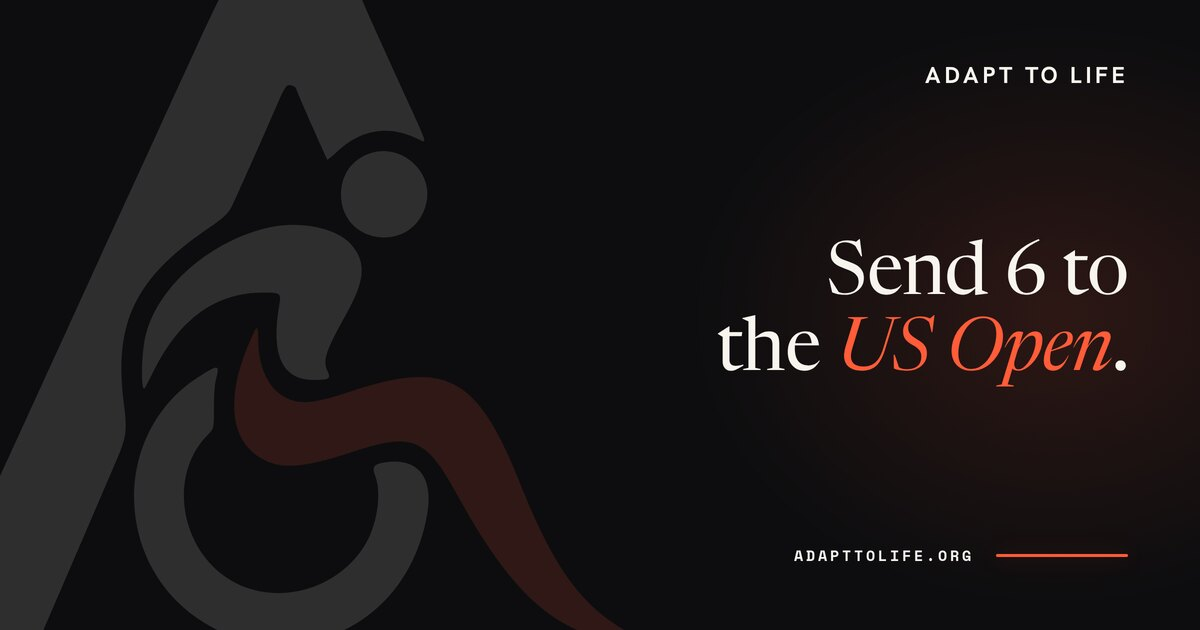
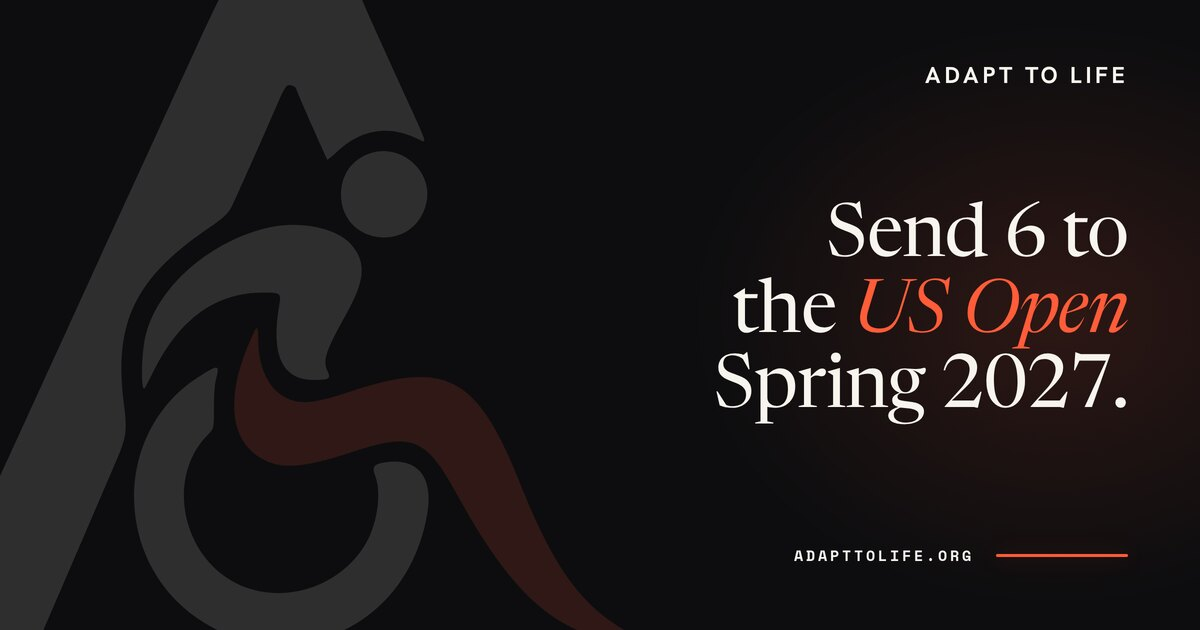
[verified] content: add Spring 2027 to Send 6 campaign

Changed region(s): [[0.5858, 0.3016, 0.9558, 0.6937], [0.925, 0.6333, 0.9558, 0.6635]]

diff --git a/public/send-6.html b/public/send-6.html
@@ -4,25 +4,25 @@
 <meta charset="UTF-8">
 <meta name="viewport" content="width=device-width, initial-scale=1.0">
 <meta name="color-scheme" content="light only">
-<title>Send 6 to the US Open | Adapt To Life</title>
-<meta name="description" content="We are raising $21,000 to send six adaptive pickleball athletes to the US Open in Naples with nothing out of pocket. About $3,500 covers one athlete's equipment, training, and travel. Adapt To Life is a recognized 501(c)(3).">
+<title>Send 6 to the US Open Spring 2027 | Adapt To Life</title>
+<meta name="description" content="We are raising $21,000 to send six adaptive pickleball athletes to the US Open in Naples in spring 2027 with nothing out of pocket. About $3,500 covers one athlete's equipment, training, and travel. Adapt To Life is a recognized 501(c)(3).">
 <link rel="canonical" href="https://adapttolife.org/send-6">
 <link rel="icon" type="image/svg+xml" href="/images/favicon-v2-option2.svg">
 <link rel="icon" type="image/png" sizes="32x32" href="/images/favicon-v2-option2-32.png">
 <link rel="apple-touch-icon" href="/images/apple-touch-icon-v2-option2.png">
 <meta property="og:type" content="website">
-<meta property="og:title" content="Send 6 to the US Open | Adapt To Life">
-<meta property="og:description" content="Six adaptive athletes in Naples, nothing out of pocket. About $3,500 covers one.">
+<meta property="og:title" content="Send 6 to the US Open Spring 2027 | Adapt To Life">
+<meta property="og:description" content="Six adaptive athletes in Naples in spring 2027, with nothing out of pocket. About $3,500 covers one.">
 <meta property="og:image" content="https://adapttolife.org/images/og/send-6-v2-option2.jpg">
 <meta property="og:image:width" content="1200">
 <meta property="og:image:height" content="630">
-<meta property="og:image:alt" content="Send 6 to the US Open. Adapt To Life.">
+<meta property="og:image:alt" content="Send 6 to the US Open Spring 2027. Adapt To Life.">
 <meta property="og:url" content="https://adapttolife.org/send-6">
 <meta name="twitter:card" content="summary_large_image">
-<meta name="twitter:title" content="Send 6 to the US Open | Adapt To Life">
-<meta name="twitter:description" content="Six adaptive athletes in Naples, nothing out of pocket.">
+<meta name="twitter:title" content="Send 6 to the US Open Spring 2027 | Adapt To Life">
+<meta name="twitter:description" content="Six adaptive athletes in Naples in spring 2027, with nothing out of pocket.">
 <meta name="twitter:image" content="https://adapttolife.org/images/og/send-6-v2-option2.jpg">
-<meta name="twitter:image:alt" content="Send 6 to the US Open. Adapt To Life.">
+<meta name="twitter:image:alt" content="Send 6 to the US Open Spring 2027. Adapt To Life.">
 <link rel="preconnect" href="https://fonts.googleapis.com">
 <link rel="preconnect" href="https://fonts.gstatic.com" crossorigin>
 <link href="https://fonts.googleapis.com/css2?family=Newsreader:ital,opsz,wght@0,6..72,400;0,6..72,500;0,6..72,600;1,6..72,400;1,6..72,500&family=Hanken+Grotesk:wght@400;500;600;700&family=Space+Mono:wght@400;700&display=swap" rel="stylesheet">
@@ -187,7 +187,7 @@ fill="currentColor" stroke="none">
 <section class="dark s6-hero hero-atmos">
   <div class="wrap">
     <span class="eyebrow orange reveal">The campaign</span>
-    <h1 class="serif display reveal">Send 6 to the US Open.</h1>
+    <h1 class="serif display reveal">Send 6 to the US Open Spring 2027.</h1>
     <p class="lead sub reveal" style="color:var(--cream-mute);">Six adaptive pickleball athletes on the court in Naples, spring 2027. Not a hardship discount, not a partial scholarship. Covered.</p>
 
     <div class="s6-meter reveal" id="s6Meter">

diff --git a/test/campaign_timing.test.js b/test/campaign_timing.test.js
@@ -1,0 +1,43 @@
+import test from "node:test";
+import assert from "node:assert/strict";
+import { readFile } from "node:fs/promises";
+import { join } from "node:path";
+
+const ROOT = new URL("..", import.meta.url).pathname;
+const CAMPAIGN = "Send 6 to the US Open Spring 2027";
+
+async function text(path) {
+  return readFile(join(ROOT, path), "utf8");
+}
+
+test("Spring 2027 is part of the canonical Send 6 campaign name", async () => {
+  const campaigns = JSON.parse(await text("public/data/campaigns.json"));
+  const send6 = campaigns.campaigns.find((campaign) => campaign.slug === "send-6-us-open");
+  assert.equal(send6?.name, CAMPAIGN);
+  assert.equal(send6?.when, "Spring 2027, Naples, Florida");
+});
+
+test("campaign page and supporting cards name Spring 2027", async () => {
+  const [page, fund, popcorn] = await Promise.all([
+    text("public/send-6.html"),
+    text("public/hustle-and-heart.html"),
+    text("public/popcorn.html"),
+  ]);
+
+  assert.ok(page.includes(`<title>${CAMPAIGN} | Adapt To Life</title>`));
+  assert.ok(page.includes(`<meta property="og:title" content="${CAMPAIGN} | Adapt To Life">`));
+  assert.ok(page.includes(`<meta name="twitter:title" content="${CAMPAIGN} | Adapt To Life">`));
+  assert.ok(page.includes(`<h1 class="serif display reveal">${CAMPAIGN}.</h1>`));
+  assert.ok(fund.includes(`>Toward ${CAMPAIGN} <span class="arrow">`));
+  assert.ok(popcorn.includes(`>${CAMPAIGN}</a>`));
+});
+
+test("social metadata and generated card source carry Spring 2027", async () => {
+  const [wire, generator] = await Promise.all([
+    text("scripts/wire-og.mjs"),
+    text("scripts/make-og.mjs"),
+  ]);
+
+  assert.ok(wire.includes(`"send-6": "${CAMPAIGN}. Adapt To Life."`));
+  assert.ok(generator.includes(`Send 6 to the <em>US Open</em> Spring 2027.`));
+});

diff --git a/public/popcorn.html b/public/popcorn.html
@@ -430,7 +430,7 @@ fill="currentColor" stroke="none">
     </ul>
 
     <div class="pop-math reveal">
-      <p class="pop-math-line"><strong>About $3,500 puts one athlete on that court.</strong> Six athletes is <strong>$21,000</strong>, which is the goal of <a class="textlink" href="/send-6">Send 6 to the US Open</a>. These costs climb every year, so we budget honestly rather than optimistically.</p>
+      <p class="pop-math-line"><strong>About $3,500 puts one athlete on that court.</strong> Six athletes is <strong>$21,000</strong>, which is the goal of <a class="textlink" href="/send-6">Send 6 to the US Open Spring 2027</a>. These costs climb every year, so we budget honestly rather than optimistically.</p>
       <p class="pop-math-sub">Every bag sends about six dollars to the fund. A set of tires is roughly thirty bags. One athlete is roughly five hundred.</p>
       <p class="pop-ladder">This drive is going for <strong>$1,000</strong>. Twenty-one of them, or the equivalent in gifts, is <a class="textlink" href="/send-6">six athletes in Naples</a>.</p>
       <div class="actions" style="margin-top:1.6rem;">

diff --git a/test/site_logo.test.js b/test/site_logo.test.js
@@ -115,7 +115,7 @@ test("social cards use the Option 2 monogram on cache-busting URLs", async () =>
   const option2CardHashes = new Map([
[7 lines of base64/hex data omitted]

diff --git a/public/hustle-and-heart.html b/public/hustle-and-heart.html
@@ -291,7 +291,7 @@ fill="currentColor" stroke="none">
               <span class="thermo-goal">raised of our $21,000 goal</span>
             </div>
             <div class="thermo-track"><span class="thermo-fill" data-thermo-fill></span></div>
-            <a href="/send-6" class="thermo-link">Toward Send 6 to the US Open <span class="arrow">&rarr;</span></a>
+            <a href="/send-6" class="thermo-link">Toward Send 6 to the US Open Spring 2027 <span class="arrow">&rarr;</span></a>
           </div>
           <div style="margin-top:1.4rem; display:flex; gap:0.6rem 1.6rem; flex-wrap:wrap;">
             <a href="/tim" class="textlink" style="color:#fff; border-color:var(--orange);">Read Tim's story <span class="arrow">&rarr;</span></a>

diff --git a/src/fund.js b/src/fund.js
@@ -38,7 +38,7 @@ export async function fundPosition(env) {
     raised: online + offline,
     online,
     offline,
-    // Fallback only. The live goal is Givebutter's (Send 6 to the US Open:
+    // Fallback only. The live goal is Givebutter's (Send 6 to the US Open Spring 2027:
     // 6 athletes x $3,500). Change it there, not here (Spec 115 D3).
     goal: goal || Number(env.RAISED_GOAL) || 21000,
     live,

diff --git a/docs/CONTENT.md b/docs/CONTENT.md
@@ -153,7 +153,7 @@ Each message lives in ONE canonical place. Everywhere else: one line max, linkin
   - Flip list, for whoever launches ASNM: nav description on all 16 pages, `/`, `/about`,
     `/roadmap`, `/karen`, and `/adaptive-sports-near-me` (hero, closing, and both CTA labels).
 - **A campaign and a drive are different things and never merge.** A *campaign* is what we are
-  raising for and who it reaches (Send 6 to the US Open, six athletes, $21,000). It has a goal and a
+  raising for and who it reaches (Send 6 to the US Open Spring 2027, six athletes, $21,000). It has a goal and a
   named beneficiary, and it gets a page. A *drive* is a dated way we raise it (the August popcorn
   store, a tournament). It feeds exactly one campaign and is a row on that campaign's page until it
   earns a page of its own, the way popcorn did. Goals nest and never compete: a drive carries what

diff --git a/docs/popcorn-campaigns.md b/docs/popcorn-campaigns.md
@@ -95,7 +95,7 @@ That is the whole job. Nothing else on any page needs touching.
 
 ```
 Hustle & Heart Fund            the fund, open every day
-   └─ Send 6 to the US Open    the campaign, $21,000 (six athletes x ~$3,500), page at /send-6
+   └─ Send 6 to the US Open Spring 2027    the campaign, $21,000 (six athletes x ~$3,500), page at /send-6
         └─ August popcorn drive    one drive, Aug 6-13, page at /popcorn
         └─ future drives, tournaments, monthly popcorn
 ```
